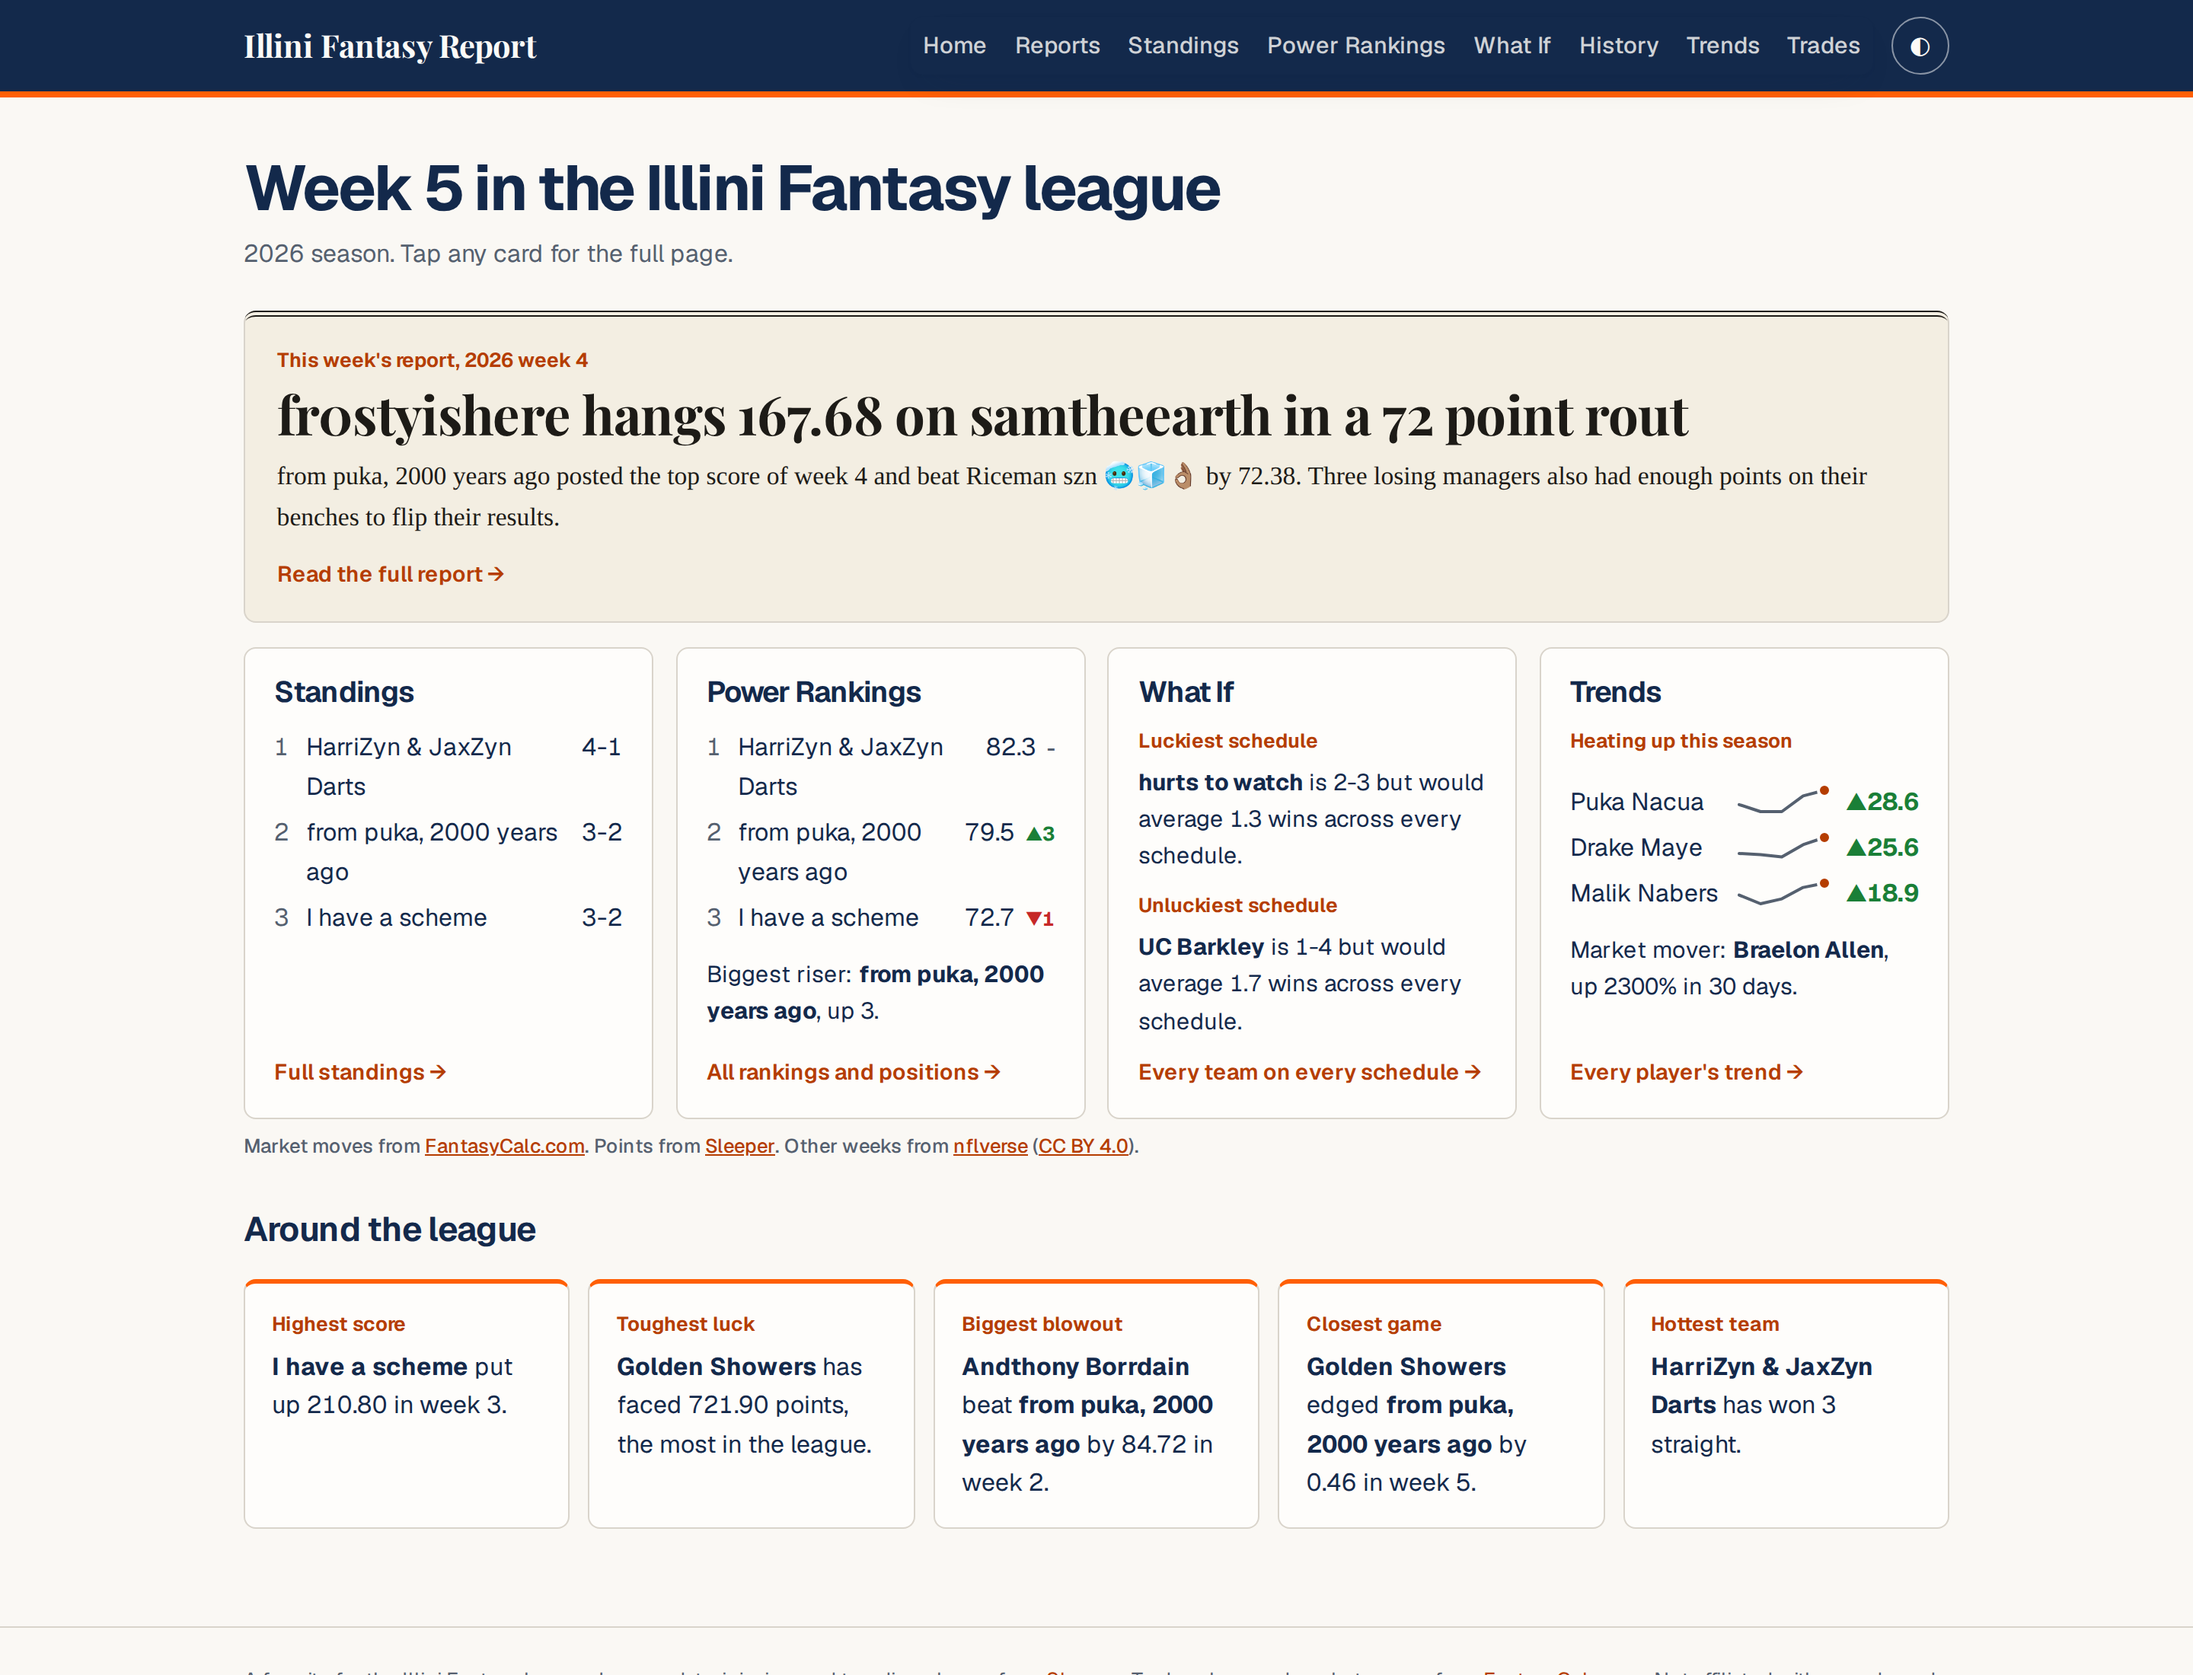
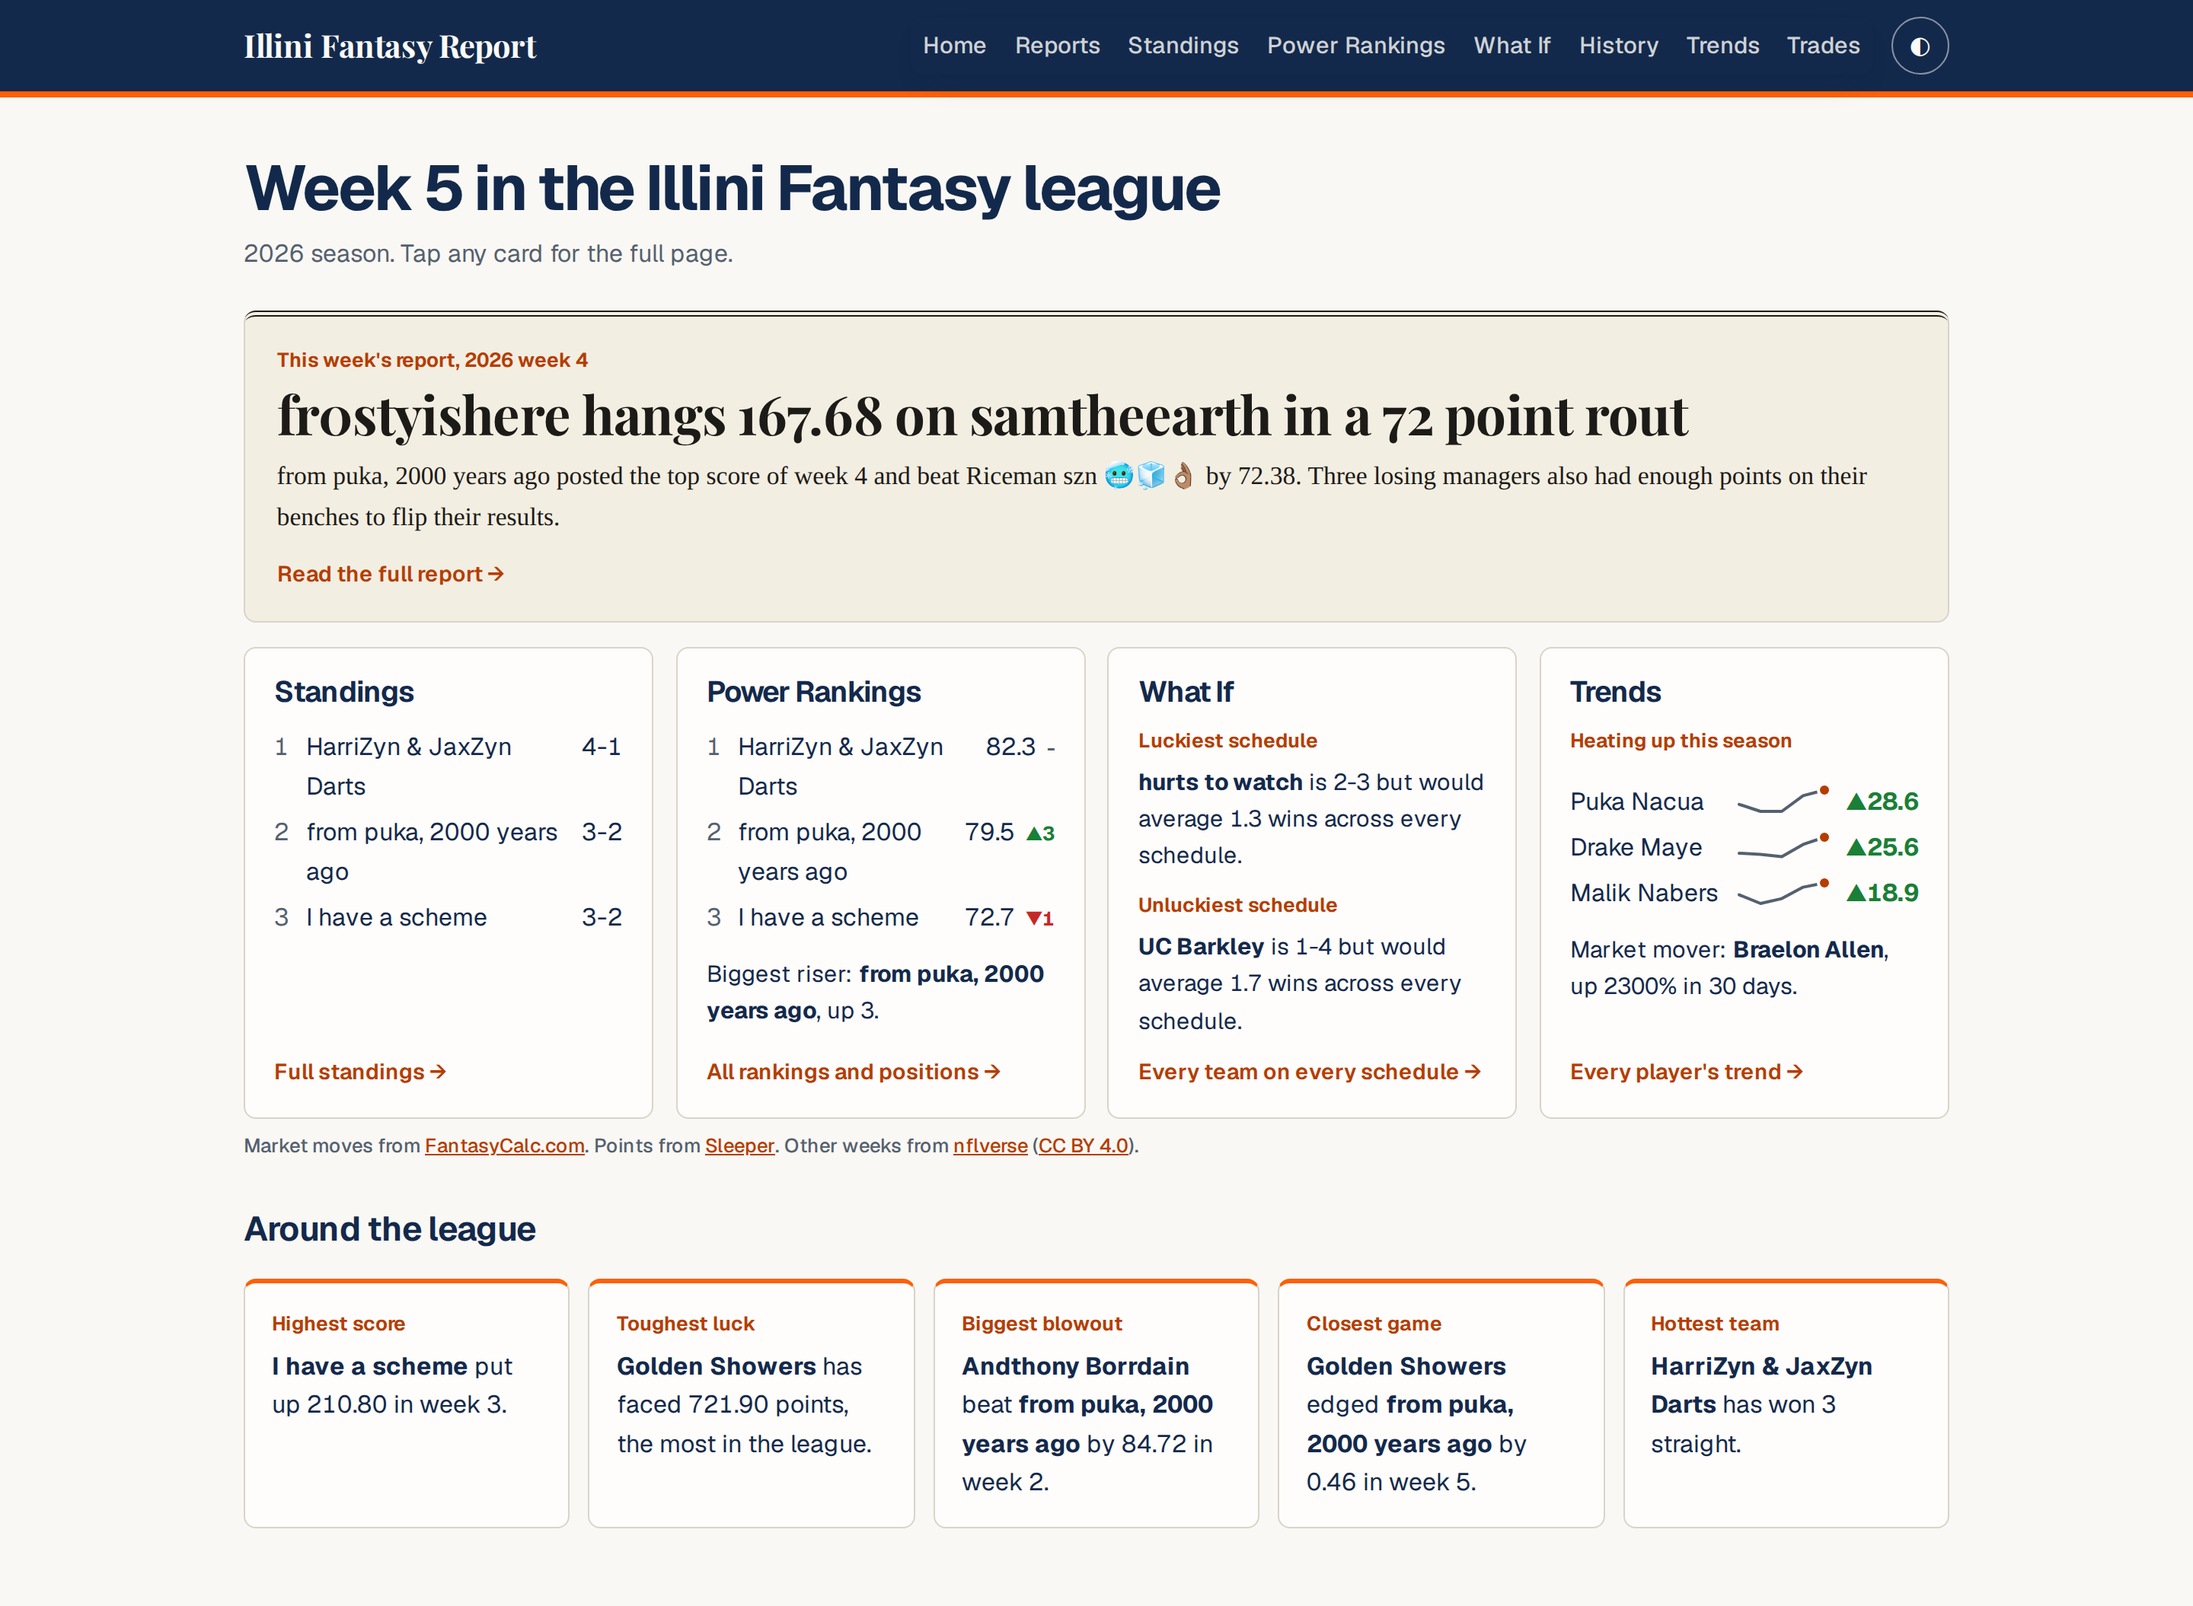
Rewrite the README with features, a homepage screenshot, and setup steps
Also removes the temporary screenshot workflow.

Claude-Session: https://claude.ai/code/session_01VzDBrdpb2PG1on9yeSZi61

diff --git a/README.md b/README.md
@@ -1,2 +1,98 @@
-# illini-fantasy-report
-A website for our Illini Fantasy Football League.
+# Illini Fantasy Report
+
+A newspaper-style website for the Illini Fantasy Football League, a 12-team league on Sleeper. Every week brings a new recap of the action, and standings, rankings, and player trends refresh daily with no manual work.
+
+**Live site:** [illini-fantasy-report.pages.dev](https://illini-fantasy-report.pages.dev)
+
+![The Illini Fantasy Report homepage](docs/homepage.png)
+
+## Features
+
+### Weekly report
+A sports-page recap of every week, written by Claude from facts computed out of Sleeper data. Each issue covers every matchup, the player and bust of the week, bench blunders, power ranking risers and fallers, transactions, injuries, trending players, and picks for next week. The model only receives computed facts, so every number in a report comes from the league data. Reports can be saved as a PDF or as a shareable image, and each one gets its own link preview card.
+
+### Standings
+The league table with records, points for and against, streaks, recent form, and league ranks for scoring.
+
+### Power rankings
+A composite score built from all-play win percentage, total points, and recent scoring, with week-over-week movement and positional rankings for QB, RB, WR, TE, K, and DEF.
+
+### What If
+A schedule-swap matrix that shows every team's record had it played every other team's schedule, highlighting the luckiest and unluckiest teams. On phones it collapses into an expandable list.
+
+### Trends
+Form for every rostered player: recent weeks against earlier ones, 30-day trade market movement, last season for comparison, and Buy low and Sell high tags for players scoring well below or above what their usage usually produces.
+
+### Trade Finder
+Suggested trades that improve both teams' starting lineups while keeping player values close.
+
+### League history
+Every season in the league's history, with all-time records, champions, drafts, and a page for each champion's title run.
+
+### Design
+- Reports use a newspaper layout with a blackletter masthead, serif body text, a drop cap, and multi-column articles.
+- Illinois orange and blue, with light and dark modes.
+- Built mobile first, from 360px phones up to desktop.
+- Fully static output that ships almost no JavaScript, with a strict Content Security Policy.
+
+## How it works
+
+The site is built with [Astro](https://astro.build) as a fully static site and hosted on Cloudflare Pages. All league data is fetched from the [Sleeper API](https://docs.sleeper.com) at build time, so the browser never calls an outside service.
+
+| Job | Schedule | What it does |
+|---|---|---|
+| Daily refresh | Every morning | Updates player, usage, and trade data, then rebuilds the site so standings and rankings stay current |
+| Weekly report | Tuesdays | Drafts the week's recap with Claude Code and opens a pull request for the commissioner to review and merge |
+| CI | Every pull request | Runs tests, type checks, a production build, a dependency audit, a style check on every report, and a scan for leaked secrets |
+
+A small Cloudflare Worker in `workers/refresh-cron` acts as a backup scheduler and starts either job if GitHub drops its scheduled run.
+
+## Getting started
+
+Requirements: Node 22 or newer and npm 11.
+
+```sh
+git clone https://github.com/gagank02/illini-fantasy-report.git
+cd illini-fantasy-report
+npm install
+cp .env.example .env
+npm run dev
+```
+
+The site runs at `http://localhost:4321`. The only setting needed locally is `SLEEPER_LEAGUE_ID`, which `.env.example` already provides.
+
+### Scripts
+
+| Command | Description |
+|---|---|
+| `npm run dev` | Start the local development server |
+| `npm run build` | Build the static site into `dist/` |
+| `npm run preview` | Serve the production build locally |
+| `npm test` | Run the test suite with Vitest |
+| `npm run check` | Type check the project |
+| `npm run report` | Draft a weekly report with Claude Code |
+| `npm run lint:report` | Check a report against the style rules in `writing-style.md` |
+
+## Project structure
+
+```
+src/
+  pages/        Site pages: home, reports, standings, power rankings, what if, trends, trades, history
+  lib/          Data fetching and league statistics
+  components/   Shared UI components
+  content/      Weekly reports in Markdown
+  data/         Data files committed by the daily refresh
+scripts/        Data refresh and report writing scripts
+workers/        Cloudflare Worker that backs up the scheduled jobs
+tests/          Vitest suite
+```
+
+See [SPEC.md](SPEC.md) for the full product specification.
+
+## Data and credits
+
+- League data, injuries, and trending players from [Sleeper](https://sleeper.com).
+- Trade values and market movement from [FantasyCalc.com](https://fantasycalc.com).
+- Player usage and expected points from [nflverse](https://github.com/nflverse) (CC BY 4.0) and [ffopportunity](https://github.com/ffverse/ffopportunity) (CC BY-SA 4.0).
+
+This is a fan site. It is not affiliated with or endorsed by the University of Illinois, Sleeper, FantasyCalc, or the NFL.
